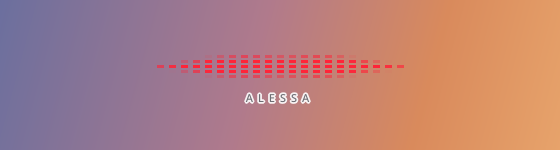
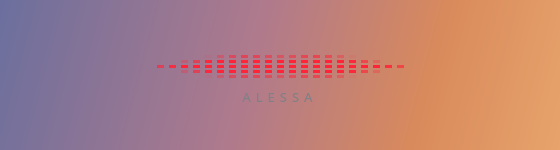
style: drop label halo, larger semi-bold ALESSA label

Changed region(s): [[0.425, 0.6133, 0.5768, 0.6933]]

diff --git a/alessa_voice.py b/alessa_voice.py
@@ -316,17 +316,11 @@ def run_daemon():
                     y = cy + (j - (segs - 1) / 2) * (self.SH + self.SGAP) - self.SH / 2
                     p.drawRect(QRectF(x, y, self.SW, self.SH))
             p.setPen(QColor(128, 128, 134))  # neutral: readable on light and dark windows
-            f = QFont("sans-serif", 8, QFont.Weight.Medium)
+            f = QFont("sans-serif", 10, QFont.Weight.DemiBold)
             f.setLetterSpacing(QFont.SpacingType.AbsoluteSpacing, 5)
             p.setFont(f)
             label = "ALESSA" if self.minutes_left is None else f"ALESSA · {self.minutes_left}m"
-            # halo: a soft light outline keeps the label readable over any text or window behind it
-            from PyQt6.QtGui import QFontMetricsF, QPainterPath, QPen
-            path = QPainterPath()
-            path.addText((self.W - QFontMetricsF(f).horizontalAdvance(label)) / 2, cy + 36, f, label)
-            p.setRenderHint(QPainter.RenderHint.Antialiasing)
-            p.strokePath(path, QPen(QColor(255, 255, 255, 230), 3.5))
-            p.fillPath(path, QColor(110, 110, 116))
+            p.drawText(QRectF(0, cy + 22, self.W, 20), Qt.AlignmentFlag.AlignHCenter, label)
             p.end()
 
     class Daemon(QObject):
